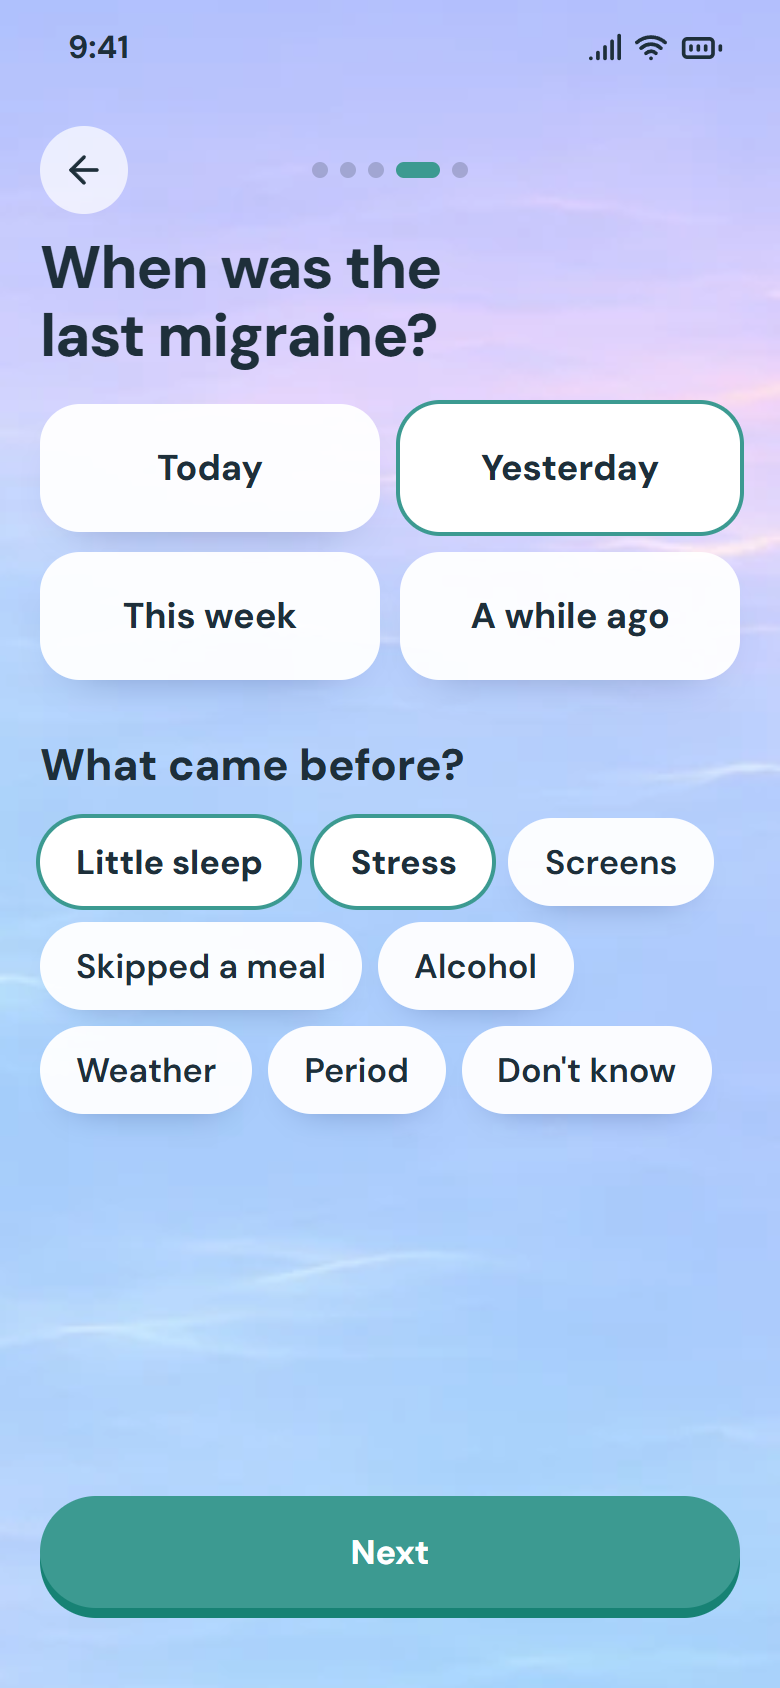
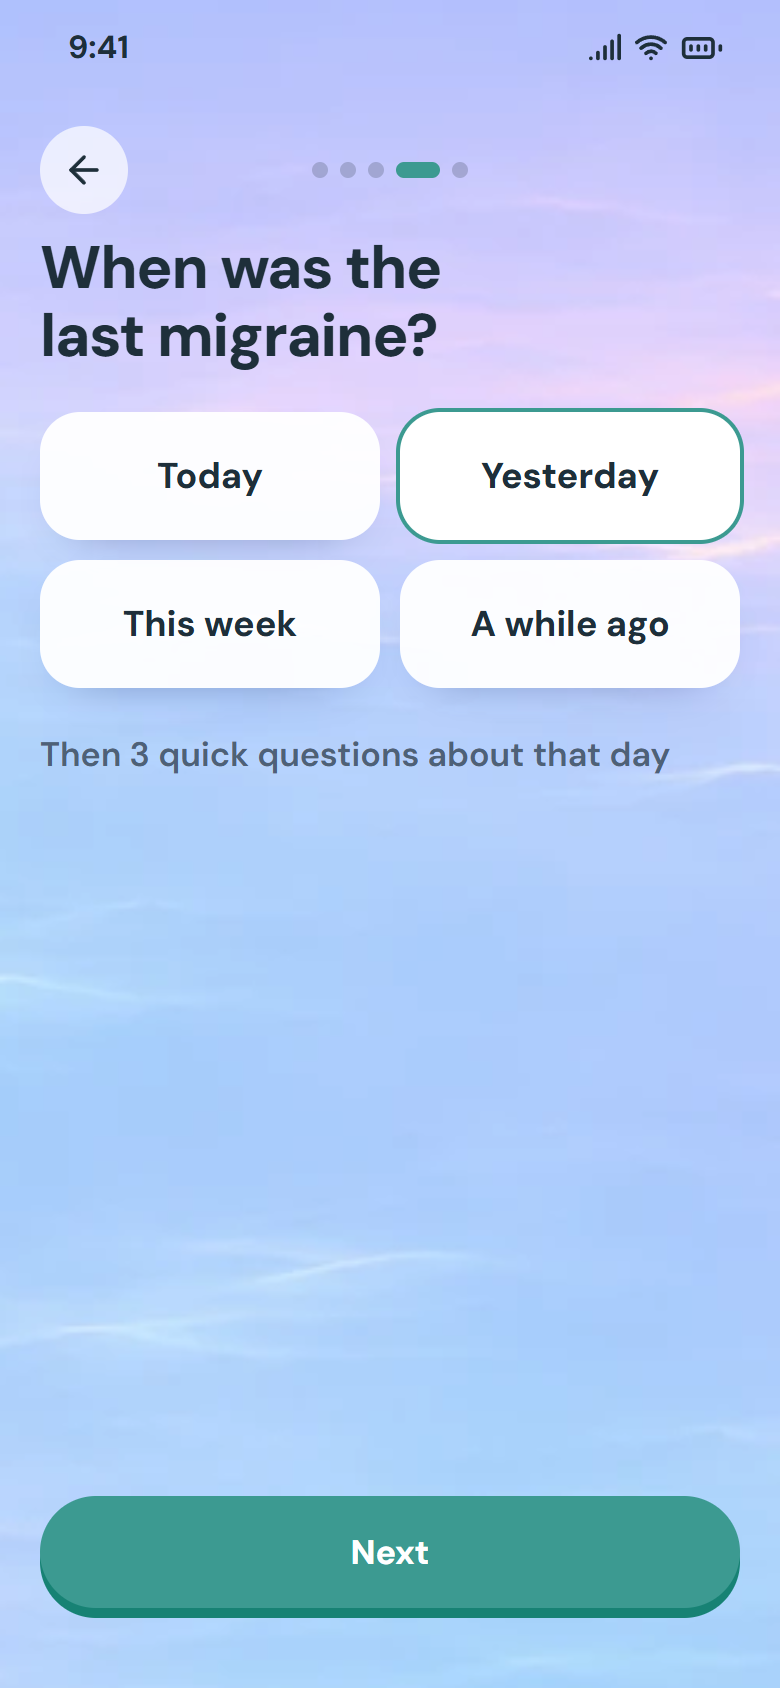
Onboarding v2: the first answer is one fact, not a guess
Her note (Nov 5 2026): we promise to find out "what comes before your
migraines", then ask her "what came before?" — strange. The first answer is
now one tap (when was the last one / when did you last have a lot of
energy), then three swipes about that day; her own guess waits for
"Your hunch" on the path, where the app checks it.

diff --git a/marketing/aurora-light-ux/onboarding-v2-coverage.md b/marketing/aurora-light-ux/onboarding-v2-coverage.md
@@ -25,7 +25,7 @@
 | Fights with my partner | argued-with-partner | ✅ готова (дверь, 3 соседних вопроса, «что было перед») |
 | Migraines | migraine | ✅ готова |
 | Drinking | drank-alcohol | ✅ готова |
-| **Bad nights** | — | ⚠ **двери нет.** Вопросы есть: «Slept enough (7+ hours)», «Recovered after sleep», «In bed before midnight», «Coffee after 2pm», «Stuck to a screen 4h+». Нужны дверь и «What kept you up?» |
+| **Bad nights** | — | ⚠ **двери нет.** Вопросы есть: «Slept enough (7+ hours)», «Recovered after sleep», «In bed before midnight», «Coffee after 2pm», «Stuck to a screen 4h+». Нужна дверь |
 | Snapping at my kid | yelled-at-kid | ✅ готова |
 | Low mood | felt-depressed | ✅ готова |
 | Something else | свой остров | ✅ есть |
@@ -56,6 +56,10 @@
 | Ate late in the evening | Поздно ела вечером | Body & habits | трудный | сосед для Bad nights и Energy |
 
 И сделать в коде:
-1. Дверь **Bad nights** (главный — «Slept enough», «нет» = плохая ночь) с «What kept you up?»: кофе, экраны, мысли, поздняя еда, шум, ребёнок, боль, не знаю.
-2. Семь дверей **хороших дней** (главный хороший вопрос + 3 соседа) и «What helped?»: Slept well, Moved, Outside, Ate well, Good people, Rest, Sun, Don't know.
+1. Дверь **Bad nights** (главный — «Slept enough», «нет» = плохая ночь; соседи — кофе после 14:00, экраны, просыпалась ночью).
+2. Семь дверей **хороших дней** (главный хороший вопрос + 3 соседа).
 3. Развилку и обещание её словами (доски 49 и 50).
+
+## Первый ответ — один факт (её замечание, 5 нояб.)
+
+Обещаем «узнаем, что бывает перед», поэтому на первом ответе не спрашиваем «что было перед?» / «что помогло?». Первый ответ — одно касание: когда это было. Потом 3 карточки-свайпа про тот день (сон, стресс, еда…) — это и есть данные. Её собственная догадка — позже, в шаге «Your hunch» на пути, где приложение проверяет её на ответах. Подсказки-чипы «what came before» из онбординга убраны.
